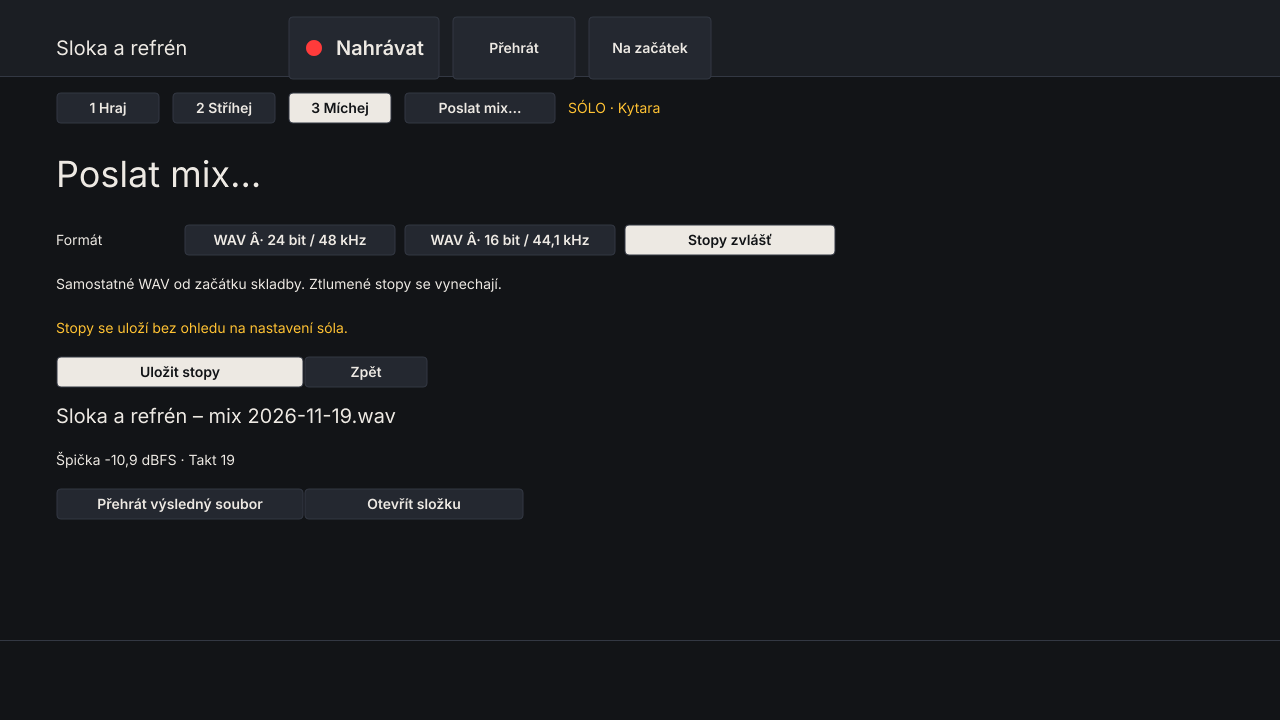
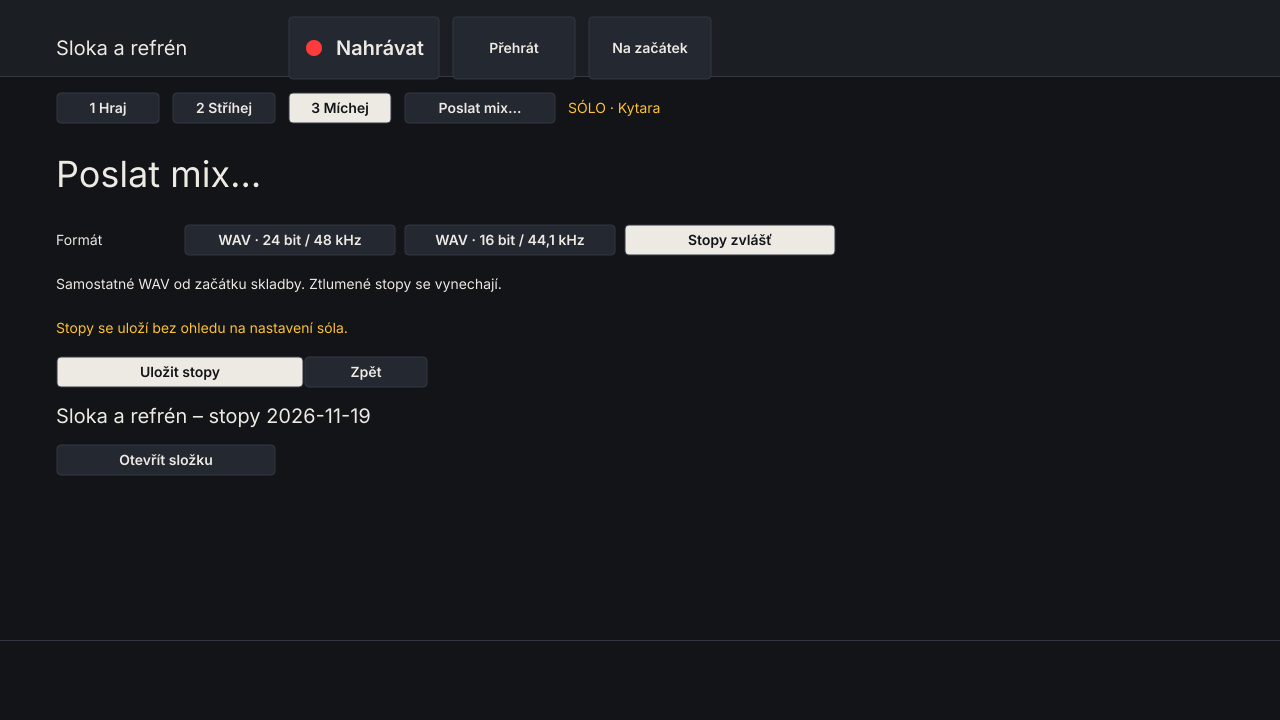
Show the current export result and draw format labels as UTF-8

Changed region(s): [[0.0312, 0.55, 0.4062, 0.7333], [0.3438, 0.3056, 0.4688, 0.3361], [0.1562, 0.3056, 0.2812, 0.3361]]

diff --git a/tests/StudioTests.cpp b/tests/StudioTests.cpp
@@ -795,9 +795,8 @@ TEST_CASE("A-02 A-17 section strip splits, repeats, trims and asks before a shar
     REQUIRE(waveReader(files[0])->lengthInSamples ==
             ViewState::load(dir).selectionEnd - ViewState::load(dir).selectionStart);
     click(view, cs::stems);
+    CHECK_FALSE(find<Button>(view, cs::playMix));
     fits(view);
-    for (int pixels : {1280, 1920})
-        snapshot(view, "32-stopy-zvlast", pixels);
     click(view, cs::makeStems);
     juce::Array<juce::File> stems;
     for (int i = 0; i < 150; ++i) {
@@ -811,6 +810,9 @@ TEST_CASE("A-02 A-17 section strip splits, repeats, trims and asks before a shar
     CHECK(stems[0].findChildFiles(File::findFiles, false, "*.wav").size() == 1);
     CHECK(find<Button>(view, cs::mixFolder));
     CHECK_FALSE(find<Button>(view, cs::playMix));
+    fits(view);
+    for (int pixels : {1280, 1920})
+        snapshot(view, "32-stopy-zvlast", pixels);
     click(view, cs::back);
     key('M');
     REQUIRE(read().tracks.at(ViewState::load(dir).selected).mute);

diff --git a/src/ui/Strings.h b/src/ui/Strings.h
@@ -88,8 +88,8 @@ inline const juce::String
     centre = u8"střed", leftShort = "L", rightShort = "P", mixPeak = u8"Špička",
     inputOver = u8"PŘEBUZENÝ VSTUP", mixOver = u8"PŘEBUZENÝ MIX", noOver = u8"Bez přebuzení",
     trackLabel = u8"Stopa", wholeSong = u8"Celá skladba", rangeOnly = u8"Vybrané takty",
-    formatLabel = u8"Formát", rangeLabel = u8"Rozsah", wave24 = "WAV · 24 bit / 48 kHz",
-    wave16 = "WAV · 16 bit / 44,1 kHz", mp3 = "MP3 · 320 kb/s", m4a = "M4A (AAC) · 256 kb/s",
+    formatLabel = u8"Formát", rangeLabel = u8"Rozsah", wave24 = u8"WAV · 24 bit / 48 kHz",
+    wave16 = u8"WAV · 16 bit / 44,1 kHz", mp3 = u8"MP3 · 320 kb/s", m4a = u8"M4A (AAC) · 256 kb/s",
     stems = u8"Stopy zvlášť", stemsSuffix = u8" – stopy ", makeStems = u8"Uložit stopy",
     stemsHelp = u8"Samostatné WAV od začátku skladby. Ztlumené stopy se vynechají.",
     stemsSolo = u8"Stopy se uloží bez ohledu na nastavení sóla.",

diff --git a/src/ui/MixPage.cpp b/src/ui/MixPage.cpp
@@ -191,6 +191,8 @@ void Studio::exportPage(Rect area) {
         auto b = button(
             labels[i], choices.removeFromLeft(s::nameWidth).reduced(s::grid, 0),
             [this, choice] {
+                if (format != choice)
+                    delivered = {};
                 format = choice;
                 triggerAsyncUpdate();
             },
